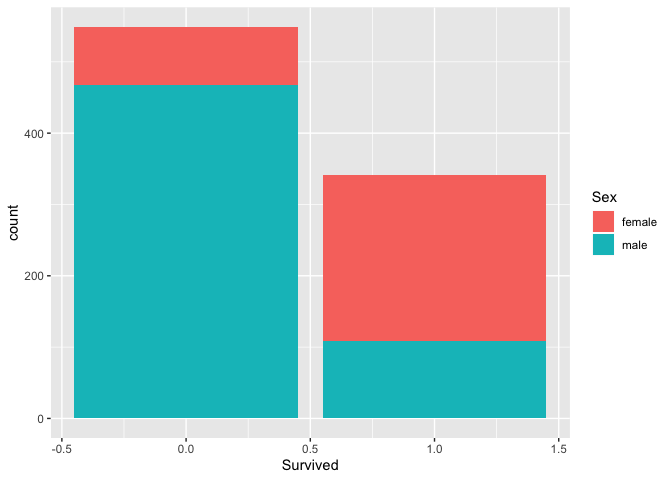
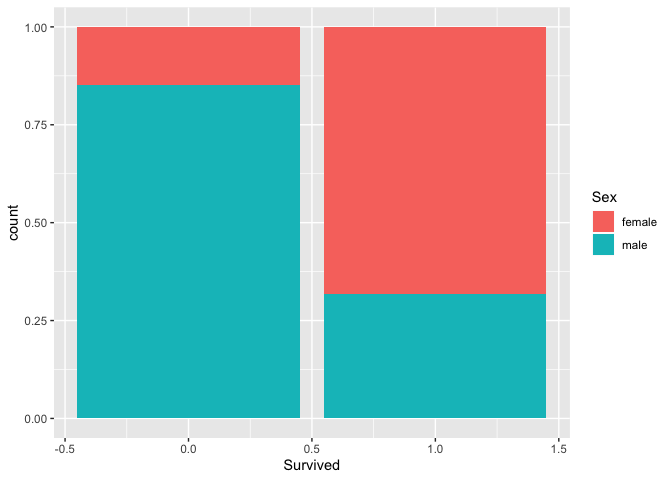
Added age vs survival graphs

diff --git a/Analysis.md b/Analysis.md
@@ -48,10 +48,8 @@ any useful information.
 
 ``` r
 ggplot(train_data) +
-  geom_bar(aes(Survived, fill = Sex, position = "fill"))
+  geom_bar(aes(Survived, fill = Sex), position = "fill")
 ```
-
-    ## Warning: Ignoring unknown aesthetics: position
 
 ![](Analysis_files/figure-gfm/unnamed-chunk-4-1.png)<!-- -->
 
@@ -74,3 +72,23 @@ ggplot(train_data) +
 ```
 
 ![](Analysis_files/figure-gfm/unnamed-chunk-6-1.png)<!-- -->
+
+A percentage of survival based on age group will be more informative.
+
+``` r
+ by_age <- train_data %>%
+  group_by(Age_Group) %>%
+  summarise(prop_lived = sum(Survived == 1) / n()) 
+
+ggplot(by_age) +
+  geom_col(aes(Age_Group, prop_lived, fill = Age_Group))
+```
+
+![](Analysis_files/figure-gfm/unnamed-chunk-7-1.png)<!-- -->
+
+Now that we have a proportion of who lived by age group, we can see that
+it is true that young passengers did indeed have a greater chance of
+surviving, likely due to priority on the life boats.
+
+With a basic idea of what to expect from the graphs, it is time to start
+building a model to predict survival.
